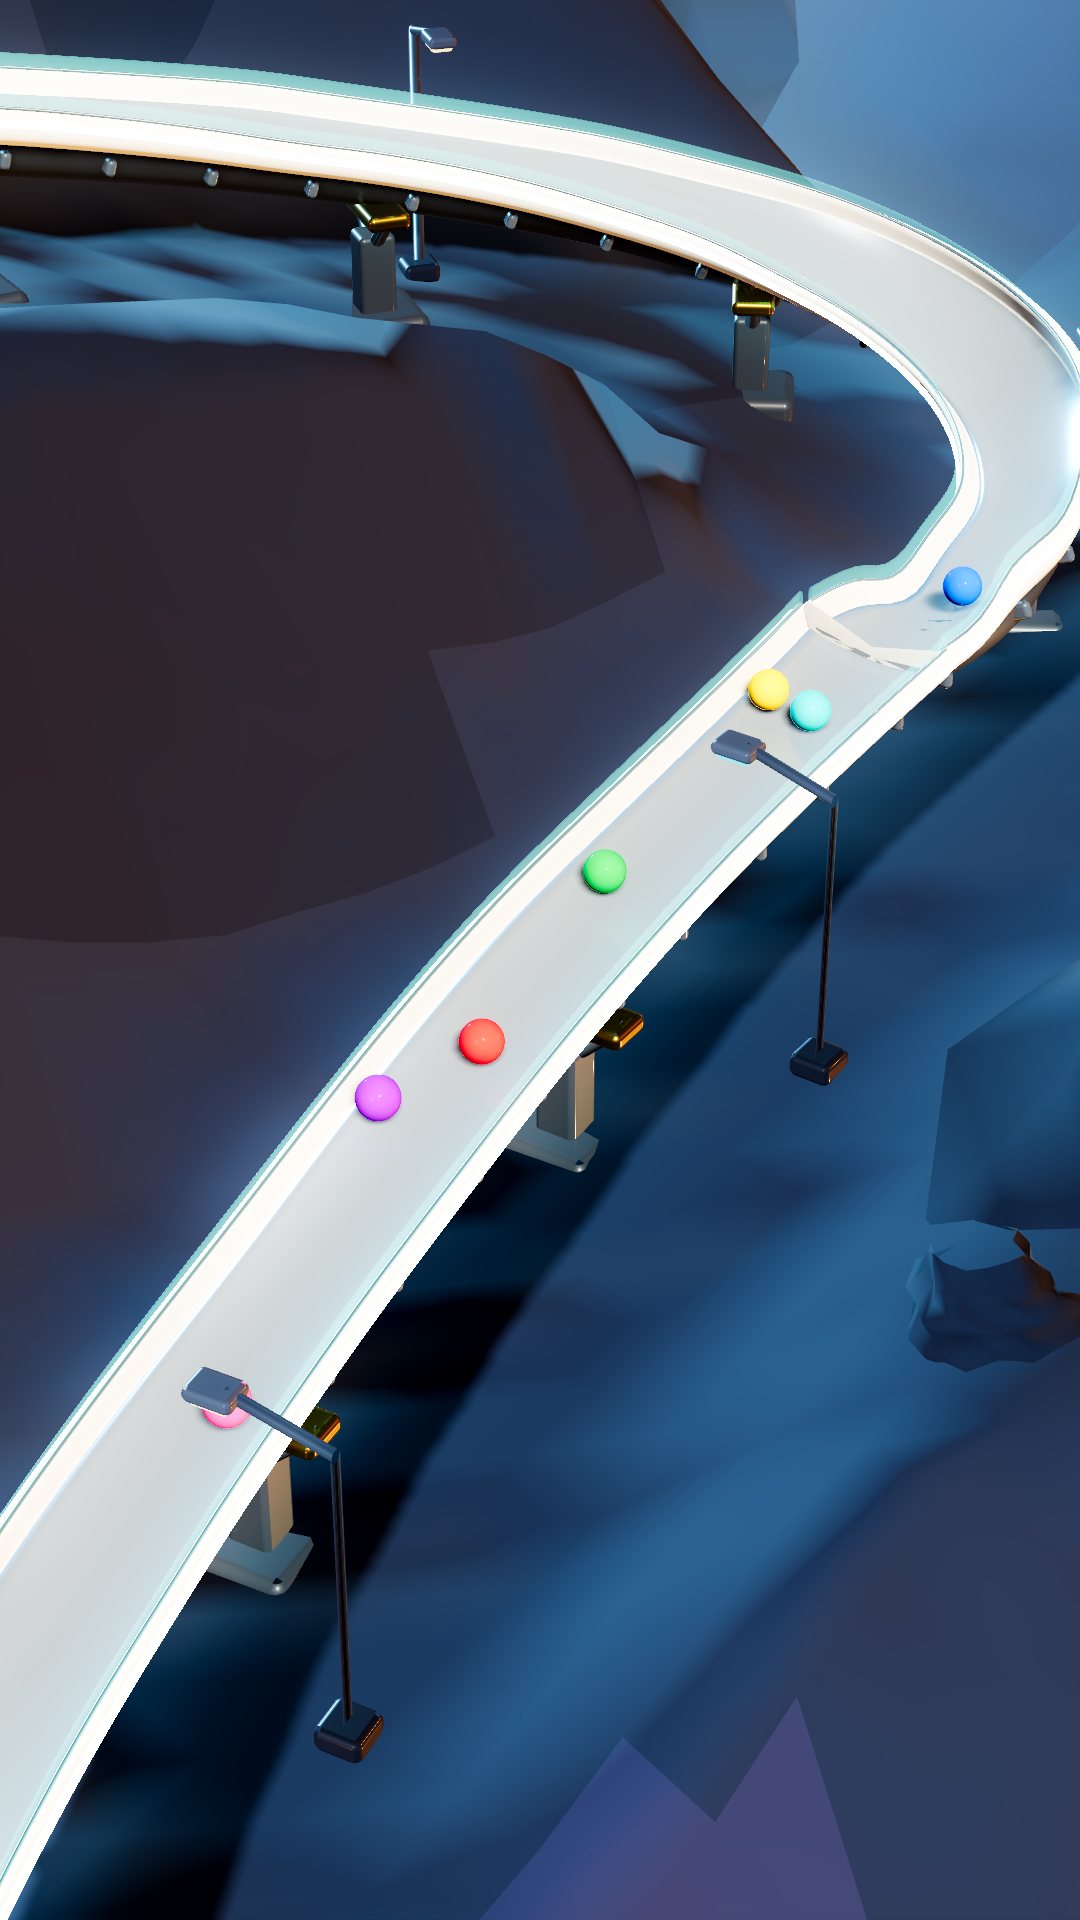
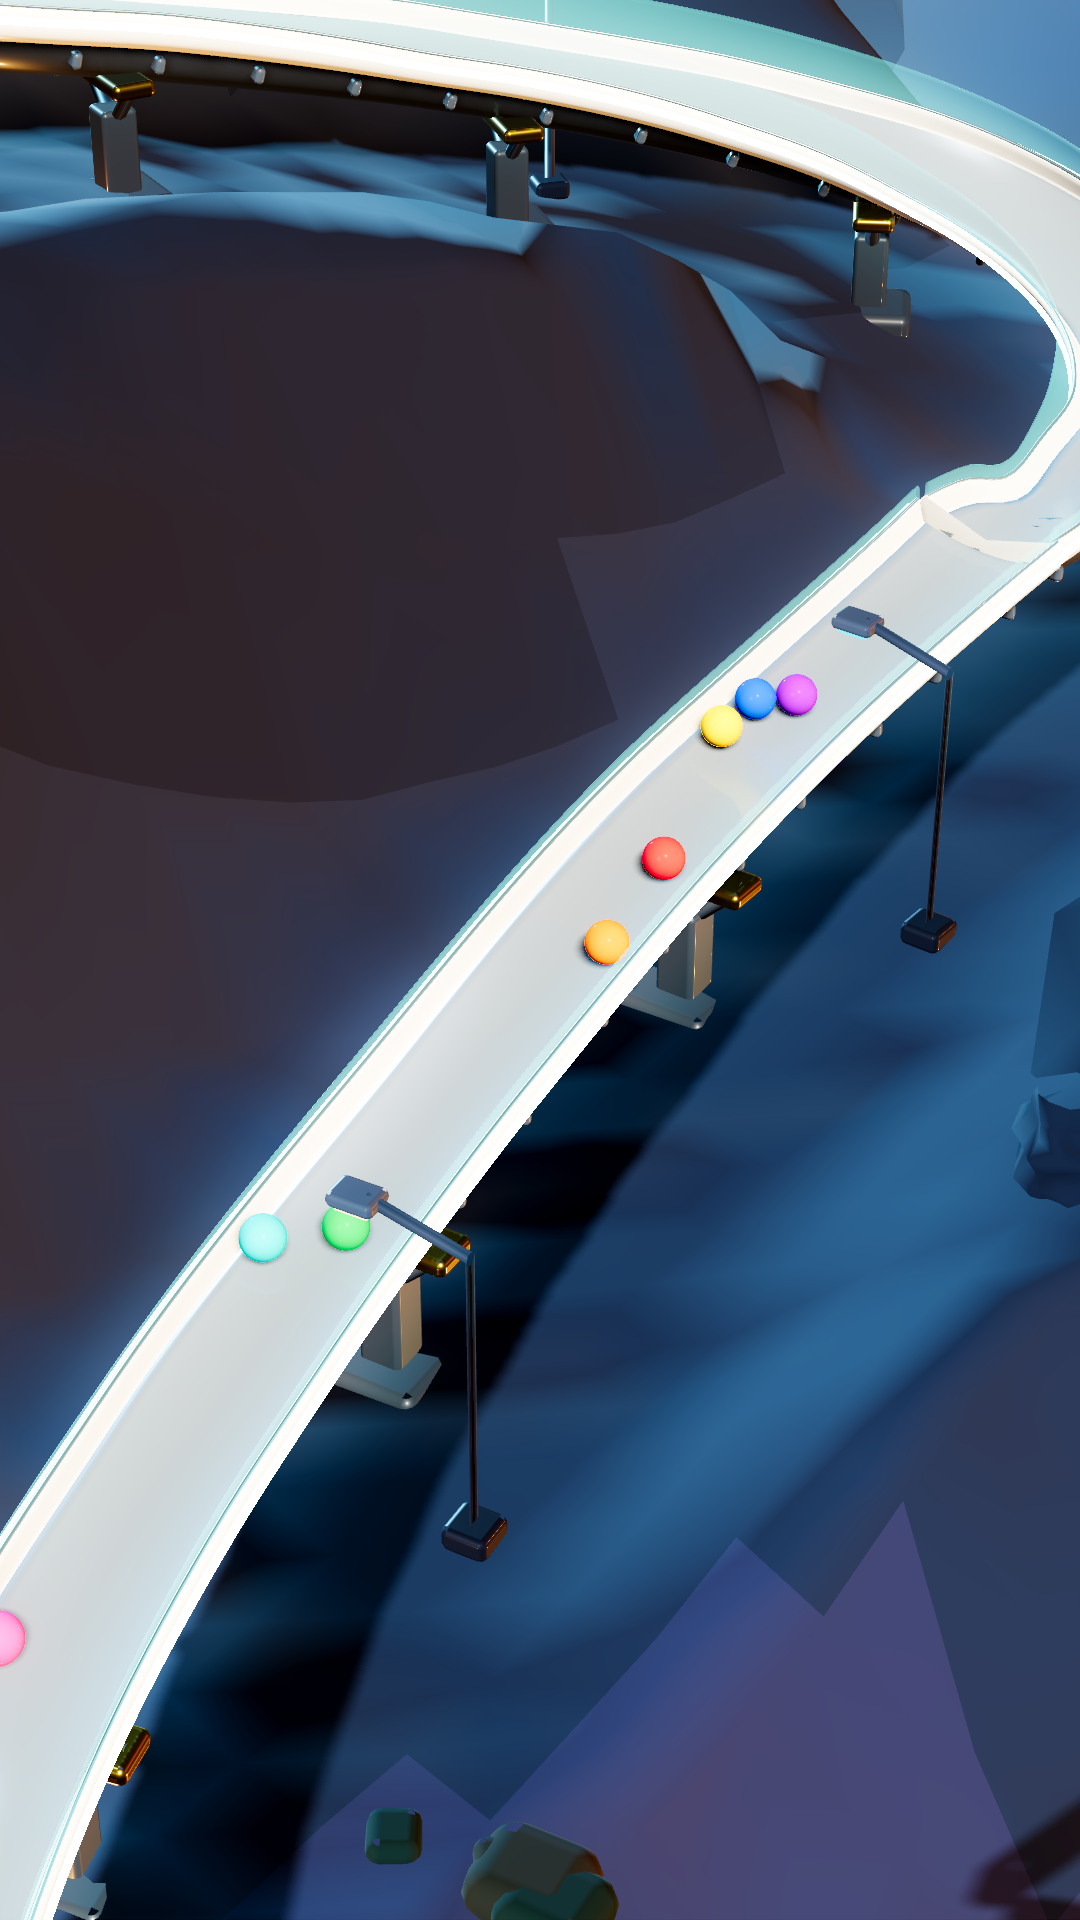
sloped-race: benchmark, characterise, select seed 182, and render the physics lock
The rest of the brief, measured and reported rather than argued.

**600 races, 4800 racers, shipped blue route.** finish 98.83% (target >=99%,
0.17 points short), all-eight 91.0% (met), escapes 0.25% (met), stuck 0.92%.
41 of 56 non-finishers are one sample of one run - `leg2[99]`, stalling rather
than leaving.

**Start fairness, and the answer to the one thing section 6 asked.** The
full-race slot-mean rank SD is 0.354 against the isolated start's 0.376, and
the span 1.161 against 1.177 - so the start's bias is transmitted, not
amplified, and the per-checkpoint columns show it *decaying* from 2.095 places
at the 9% mark to 1.161 at the finish. Not catastrophic by section 6's test.

The win-rate ratio is 5.04 against the <=2.5 target and is reported as a miss.
It is also the wrong single number, which is why four statistics are given: a
win is a tail event, and a 1.16-place shift in mean rank barely moves the
middle of the distribution while moving P(rank 1) a great deal. The podium
ratio over the same races is 2.09 and inside target. Slot 1 is 6.9 sigma above
the expected win rate and slot 5 is 6.1 below, so the effect is real.

**Seed 182 selected over the higher-scoring seed 130, on physics cleanliness.**
130 scored 3.513 to 182's 3.371 and had the closer finish, but its contact
validation reported four floating findings with a worst resting gap of 0.3799 -
a marble visibly hovering. 182 has zero findings and a worst gap of 0.0280. For
[…]

diff --git a/docs/sloped_race_v19_production.md b/docs/sloped_race_v19_production.md
@@ -193,3 +193,241 @@ All three are gates before a simulation rather than reports after one, and each
 was wrong at least once before it was right — recorded in the files that carry
 them, and the fourth session running in which an instrument had to be corrected
 before the geometry could be judged.
+
+---
+
+## 6. The production benchmark (section 5)
+
+**600 fresh races, 4,800 racers, the shipped blue route with the frozen start.**
+`docs/validation/sloped_race_v1/v19/production_blue_600.json`.
+
+| | measured | target |
+|---|---|---|
+| per-racer finish | **98.83%** | ≥99% — 0.17 points short |
+| all-eight races | **91.0%** | ≥90% — met |
+| escapes | **0.25%** | near zero — met |
+| stuck | 0.92% | near zero — the dominant remaining loss |
+
+Every non-finisher, by site: **`leg2[99]` ×41 stuck**, `final[8..14]` ×8
+escaped, `blue[9..12]` ×2 escaped, `blue[112]` ×2 stuck, `leg2[108]` ×1,
+`leg1` ×1. So 41 of 56 are one sample of one run, and they **stall** rather
+than leave. The loss-site histogram buckets by decile and had been reporting
+that as `leg2[80]`, which is why it took an A/B to find.
+
+---
+
+## 7. Start fairness on full races (section 6)
+
+Per physical bay, 600 starts each. This is a characterisation, not an
+optimisation loop.
+
+| bay | win % | podium % | finish % | rank @9% | @half | @¾ | final rank |
+|---|---|---|---|---|---|---|---|
+| 0 | 18.00 | 43.17 | 98.50 | 3.918 | 4.132 | 4.237 | 4.164 |
+| 1 | **21.83** | **49.00** | 98.50 | 3.527 | 3.817 | 3.953 | **3.931** |
+| 2 | 6.17 | 29.17 | 99.17 | 5.425 | 4.895 | 4.877 | 4.834 |
+| 3 | 10.50 | 36.00 | 98.83 | 4.892 | 4.615 | 4.643 | 4.616 |
+| 4 | 13.00 | 39.67 | 99.17 | 4.423 | 4.450 | 4.407 | 4.371 |
+| 5 | **4.33** | **23.50** | 98.33 | 5.622 | 5.247 | 5.160 | **5.092** |
+| 6 | 12.17 | 37.33 | 98.83 | 4.502 | 4.550 | 4.507 | 4.462 |
+| 7 | 14.00 | 42.17 | 99.33 | 3.692 | 4.295 | 4.217 | 4.205 |
+
+| statistic | value | |
+|---|---|---|
+| **win-rate ratio** | **5.04** | against the ≤2.5 target — **missed** |
+| podium-rate ratio | 2.09 | inside 2.5 |
+| slot-mean rank SD | **0.354** | against the isolated start's 0.376 |
+| slot-mean rank span | 1.161 | against the isolated start's 1.177 |
+| slot/rank correlation | +0.267 | |
+| centre bias | −0.535 | |
+| Spearman(slot, finish rate) | +0.041 | |
+| win-rate spread | 17.5 points | 4.33% to 21.83% |
+
+**The one thing section 6 asked to be checked is answered: the full-race result
+is not dramatically worse than the isolated-start result. It is marginally
+better** — SD 0.354 against 0.376, span 1.161 against 1.177. The start's bias
+is transmitted, not amplified. The per-checkpoint columns show it *decaying*:
+the span is 2.095 places at the 9% mark and 1.161 at the finish, so the course
+dilutes what the start hands it.
+
+**The win ratio misses its target and is reported as a miss.** It is also the
+wrong single number, which is why all four statistics are above rather than
+one: a win is a tail event, and a 1.16-place shift in mean rank barely moves
+the middle of the distribution while moving P(rank 1) a great deal. The podium
+ratio over the same races is 2.09 and inside target. Slot 1 is 6.9 sigma above
+the expected 12.5% win rate and slot 5 is 6.1 sigma below, so the effect is
+real and not sampling noise — it is the same ~1.2-place residual V1.8 measured,
+seen through a tail.
+
+---
+
+## 8. Routes (sections 2 and 3)
+
+The shipped course is the through route, so the production benchmark is 100%
+blue at 98.8% completion. Orange's numbers come from the 12-race both-routes
+probe and the isolated split sweep, and the mechanism is in section 3 above:
+
+| | usage | completion |
+|---|---|---|
+| blue, 600 races | 100% | 98.83% |
+| blue, both-routes probe | 64.2% | 90.2% |
+| orange, both-routes probe | 35.8% | **47.1%** |
+| orange, isolated sweep | **0 of 28** | — |
+
+Orange misses the ≥95% target and is a V1 limitation. Turning both routes on
+also costs the whole course: finish 74%, escape 23%, all-eight 8%.
+
+---
+
+## 9. Entertainment (section 9)
+
+600 races.
+
+| | mean | median |
+|---|---|---|
+| lead changes | 4.19 | |
+| overtakes | 35.41 | |
+| winner lock fraction | 0.226 | 0.236 |
+| winner's worst rank | 1.878 | |
+| final margin | 0.567 s | 0.517 s |
+| collisions per race | 104.6 | |
+| top speed | 64.6 | |
+
+Not measured over the 600: **competitive pack size and top-3 turnover.**
+Turnover is computed per race inside the seed scorer — it is 1.0 for every
+shortlisted seed — but is not aggregated across the benchmark, and pack size
+has no instrument at all. Both are gaps rather than results.
+
+---
+
+## 10. The selected seed (section 10)
+
+**Seed 182**, from 546 eligible races.
+
+| | |
+|---|---|
+| all eight finish | yes, 0 escaped, 0 jammed |
+| lead changes | 10 |
+| overtakes | 41 |
+| final margin | 0.4667 s |
+| winner lock | 0.4825 — the winner settles only at halfway |
+| winner's worst rank | 5 — a real comeback |
+| top-3 turnover term | 1.0 |
+| winner | marble 4 from **slot 1**, 20.217 s |
+| contact validation | **no findings** |
+
+**It was picked over the top-scoring seed on physics cleanliness rather than on
+score.** Seed 130 scored higher (3.513 against 3.371) and had the closer finish
+(0.25 s), but its contact validation reported four floating findings with a
+worst resting gap of **0.3799** — a marble visibly hovering above the track.
+Seed 27 was worse again at 0.7414. Seed 182 has zero findings and a worst gap
+of 0.0280. For the video that *is* the physics lock, a clean contact validation
+outranks a tenth of a point of entertainment score.
+
+That comparison also settled a question about my own work: the floating is
+**seed-dependent, not an artifact of the raised rails**.
+
+What was traded away, stated plainly: 130's winner came from slot 5, the
+weakest bay by win rate, where 182's comes from slot 1, the strongest. A single
+race cannot show a win-rate distribution, so "no visually obvious start-slot
+domination" is weakly served either way — but 182 is the less flattering pick
+on that axis and it was still the right one.
+
+---
+
+## 11. Determinism (section 11)
+
+Seed 182's race was re-run through the integration pipeline and its state and
+event digests match the benchmark's exactly, so the authoritative replay is the
+race that was measured.
+
+Seed 130, 20 runs in one process, 20 in fresh processes, and the two sets
+against each other — **identical on every compared key**:
+
+```
+state      27a6b6b1c2b0cd21d796afe9883122d1a75bf6a4bcf099d9ba9c67e684d553e1
+events     f428ca8bfaf287b8a16ad26dcc32ab2bff6d46ec6bf796ec115021840bdf8d88
+actuators  0c5d4b64fdb6be9105eeacf9f9648dbf417951c3b3cbaca8f51452afb33bf2a5
+order      [1, 5, 3, 4, 6, 7, 2, 0]
+```
+
+with the finish times, the route and the start slot of every racer compared too.
+
+**The check had a hole and it is now closed.** `Replay.digest()` hashes marble
+position, orientation, velocity and spin — and nothing else — so the machine's
+own moving parts were not covered, and a replay whose marbles agreed while a
+gate, a paddle or a floor slat had moved differently would have compared as
+identical. Harmless when the only actuators were eight start gates on a fixed
+clock; not harmless now that the start carries a seed-derived rotor phase and
+eighteen sweeping slats. `Replay.actuator_digest()` covers them, keyed by name
+and sorted, and it was verified to discriminate rather than assumed to: two
+replays with identical marbles and one panel moved differently agree on
+`digest` and differ on the new one.
+
+Cross-machine determinism is **not tested** — one machine was available. The
+environment block in the JSON is what a second machine's report would be
+diffed against.
+
+---
+
+## 12. The video (section 12)
+
+`output/sloped_race_v1/real_race_final_physics.mp4`
+
+| | |
+|---|---|
+| resolution | 1080 × 1920 |
+| frame rate | 60/1 |
+| codec | h264, yuv420p |
+| audio streams | **0** |
+| frames | 1515 |
+| duration | 25.25 s |
+| size | 32.3 MiB |
+
+Rendered from the authoritative replay through Godot, which plays it back and
+simulates nothing. Eleven camera cuts covering the visible start, the descent,
+the long track, the hairpin, the obstacle, the split, the branch, the merge and
+the finish.
+
+**The framing is weak on at least two cuts and that is not fixed here.** The
+camera solver reports one finding — "merge: the aim is 7.7 layout units from
+the nearest racer, so it is not following the field" — and the rendered frame
+confirms it: at t=20 s the frame is track structure and support columns with
+the marbles at the edges. Section 21 says only minor adjustments and explicitly
+defers the cinematic camera director, so this is reported rather than chased.
+The video's job here is to be the physics lock.
+
+---
+
+## 13. Known V1 limitations
+
+1. **Orange is not a viable route.** 47.1% completion in traffic and 0 of 28
+   in isolation. The transition is exact and the lead's geometry is sound; the
+   blocker is that nothing sorts a marble east of the fork's ridge, which needs
+   the divider or the guard window and is excluded from this session. Seven
+   configurations have now failed on it.
+2. **`leg2[99]` stalls 41 racers in 4,800** — 0.85%, and three quarters of all
+   non-finishers. It has no mechanism yet: the rail boost there was the
+   candidate cause and a 100-race A/B put every difference inside its own 95%
+   interval, so the boost is neither the cause nor shown to be harmless.
+   Per-racer finish is 98.83% against a 99% target because of it.
+3. **About 1.2 places of start bias remain**, showing as a 5.04 win-rate ratio
+   against a ≤2.5 target. The underlying residual is unchanged from the frozen
+   start's own measurement and is *diluted* rather than amplified by the
+   course; it is a bearing residual that no amount of rotor removes, and it is
+   deferred to V2 by instruction.
+
+Three smaller things, recorded rather than fixed:
+
+* `max_travel_per_tick` reached **0.53335** against the config's 0.5 travel
+  budget, and `worst_penetration` **−1.0396** simulation units over 600 races.
+  Both are single-worst-case figures across 4,800 racers and neither produced a
+  containment failure, but both exceed the thresholds `marble3d.config` sets
+  for itself and neither has been traced to a site.
+* `course_machine.gd` builds run nodes with `name.capitalize()` — which turns
+  `orange_lead` into `Orange Lead` — and looks them up with `to_lower()`, so
+  the two `*_lead` runs fall back to the wrong spec and their support columns
+  are misplaced. **Pre-existing**, verified against `HEAD~6`, and left alone
+  because it is the drawn course's geometry.
+* Competitive pack size and top-3 turnover are not aggregated over the
+  benchmark. See section 9.
